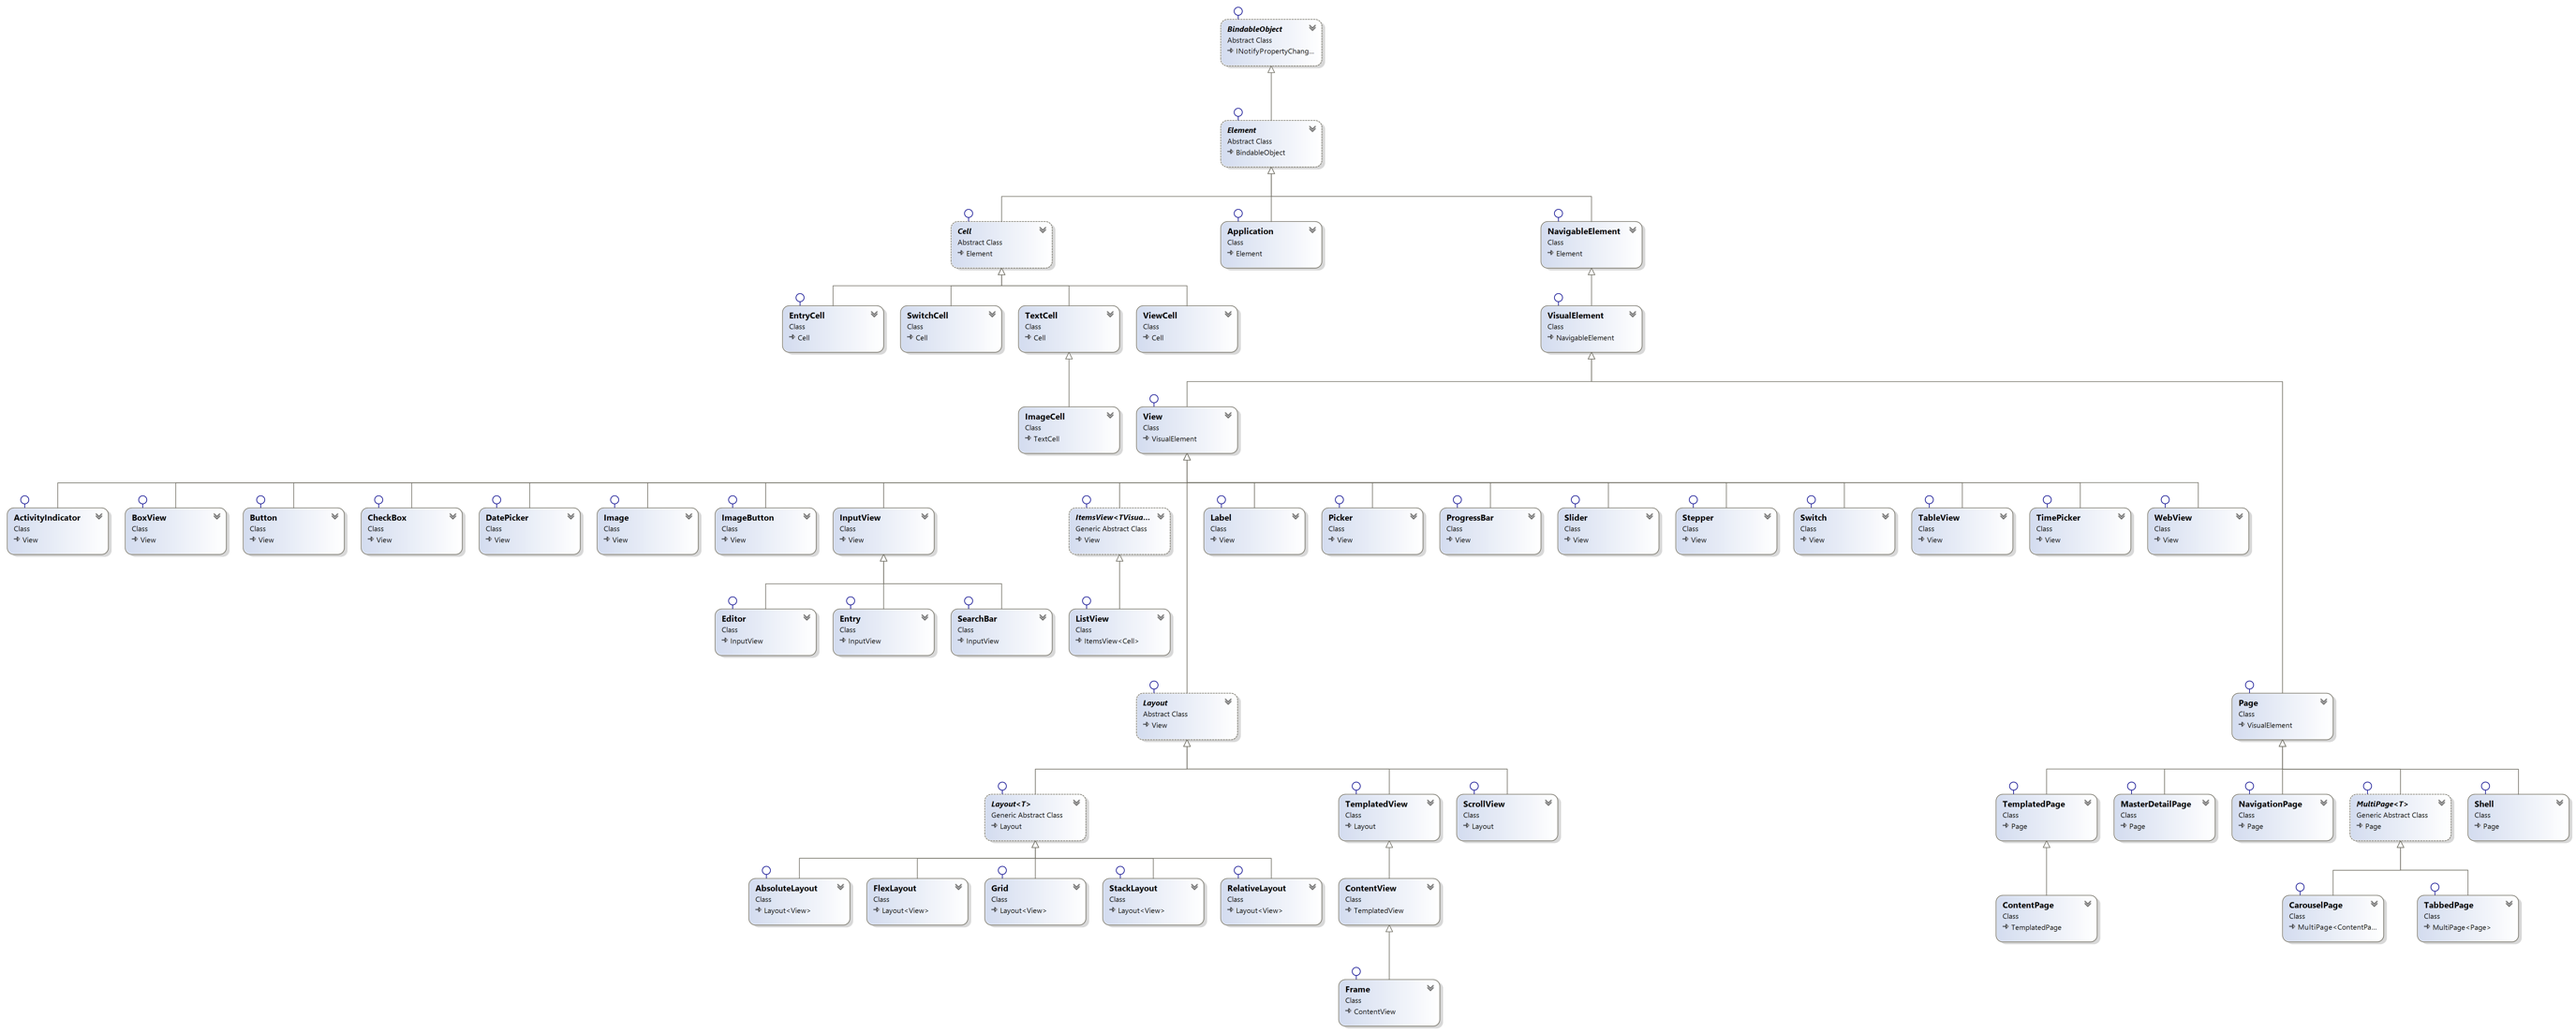
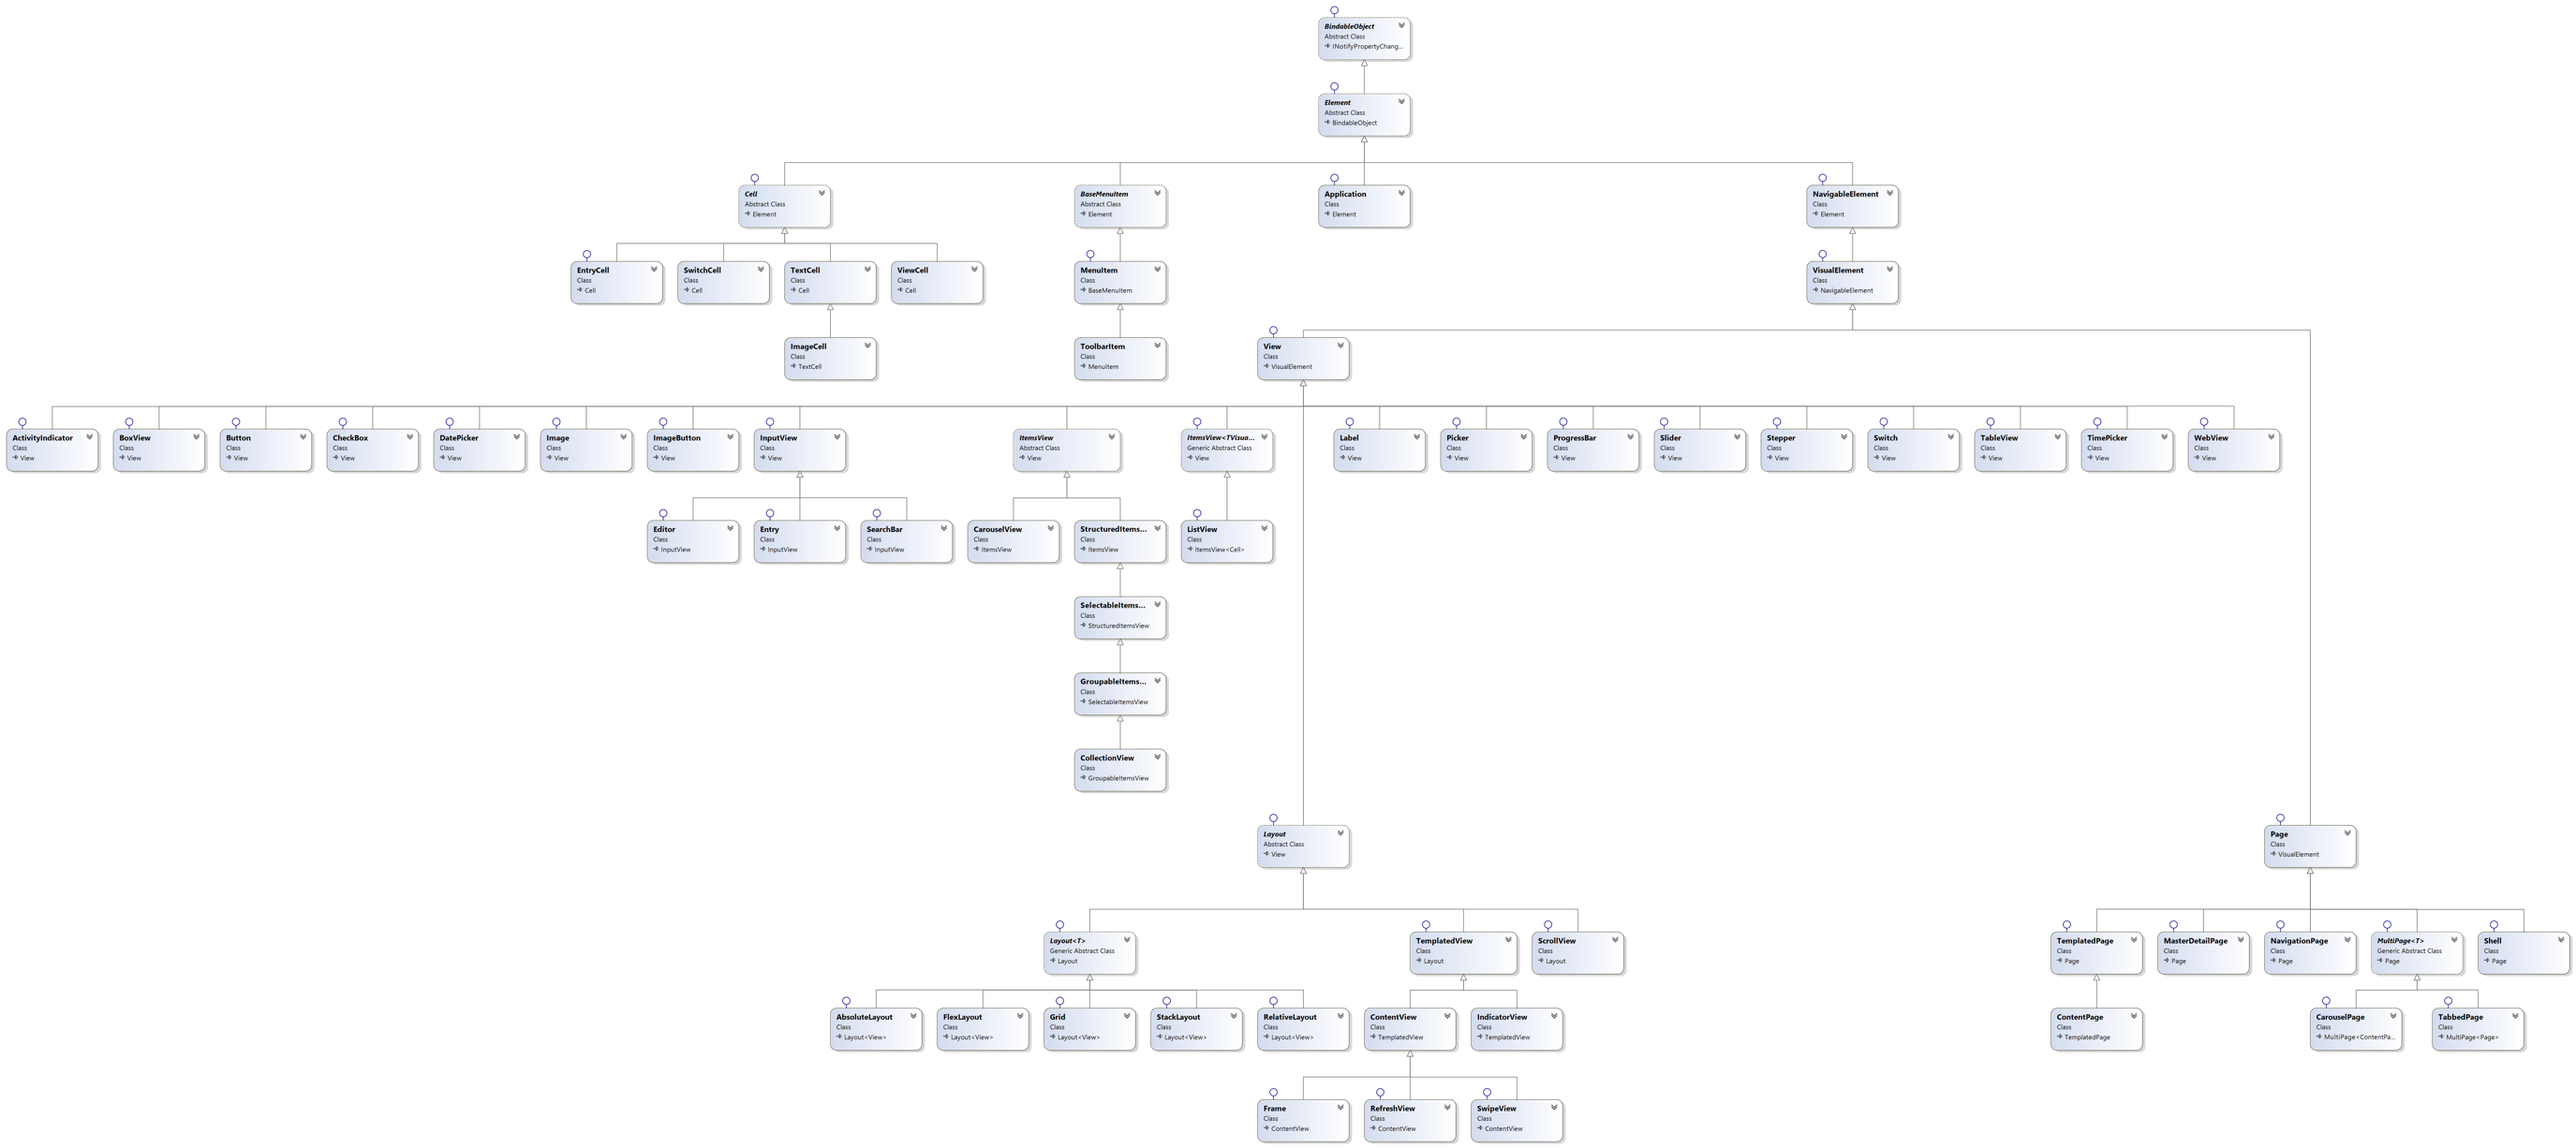
Class diagram updated. (#1464)

Changed region(s): [[0.0, 0.0, 0.8655, 1.0], [0.7727, 0.6473, 1.0, 0.9248], [0.68, 0.1541, 0.7418, 0.2774]]

diff --git a/docs/xamarin-forms/internals/class-hierarchy.md b/docs/xamarin-forms/internals/class-hierarchy.md
@@ -6,21 +6,21 @@ ms.assetid: C89E6B98-464D-4BBE-BF11-13A5FCBBF420
 ms.technology: xamarin-forms
 author: davidbritch
 ms.author: dabritch
-ms.date: 08/09/2019
+ms.date: 01/07/2020
 ---
 
 # Xamarin.Forms Controls Class Hierarchy
 
 Xamarin.Forms is made up of hundreds of types, over multiple namespaces. Developers should be most familiar with the hierarchy of types used to create the user interface of a Xamarin.Forms application, which reside in the `Xamarin.Forms` namespace.
 
-These types can be divided into pages, layouts, views, and cells. A Xamarin.Forms page generally occupies the entire screen, and all the page types derive from the [`Page`](xref:Xamarin.Forms.Page) class. Pages usually contain a layout, and all the layout types derive from the [`Layout`](xref:Xamarin.Forms.Layout) class. A layout usually contains views and possibly other layouts, and all the view types derive from the [`View`](xref:Xamarin.Forms.View) class. Finally, cells are specialized controls that are used in display data in the [`TableView`](xref:Xamarin.Forms.TableView) and [`ListView`](xref:Xamarin.Forms.ListView) controls. Pages, layouts, views, and cells are all ultimately derived from the [`Element`](xref:Xamarin.Forms.Element) class.
+These types can be divided into pages, layouts, views, and cells. A Xamarin.Forms page generally occupies the entire screen, and all the page types derive from the [`Page`](xref:Xamarin.Forms.Page) class. Pages usually contain a layout, and all the layout types derive from the [`Layout`](xref:Xamarin.Forms.Layout) class. A layout usually contains views and possibly other layouts, and all the view types ultimately derive from the [`View`](xref:Xamarin.Forms.View) class. Finally, cells are specialized controls that are used in display data in the [`TableView`](xref:Xamarin.Forms.TableView) and [`ListView`](xref:Xamarin.Forms.ListView) controls. Pages, layouts, views, and cells are all ultimately derived from the [`Element`](xref:Xamarin.Forms.Element) class.
 
 The following class diagram shows the hierarchy of types that are typically used to build a user interface in Xamarin.Forms:
 
 [![Xamarin.Forms Controls Class Diagram](class-hierarchy-images/class-diagram.png "Xamarin.Forms controls class diagram")](class-hierarchy-images/class-diagram-large.png#lightbox "Xamarin.Forms controls class diagram")
 
 > [!NOTE]
-> A high resolution version of the class diagram can be downloaded from [here](class-hierarchy-images/class-diagram-high-resolution.png). However, note that the diagram does not currently show the `CarouselView` and `CollectionView` types. These will be added once the controls are out of preview. In addition, the diagram only shows a single Shell type.
+> A high resolution version of the class diagram can be downloaded from [here](class-hierarchy-images/class-diagram-high-resolution.png). However, note that the diagram only shows a single Shell type.
 
 ## Related links
 
